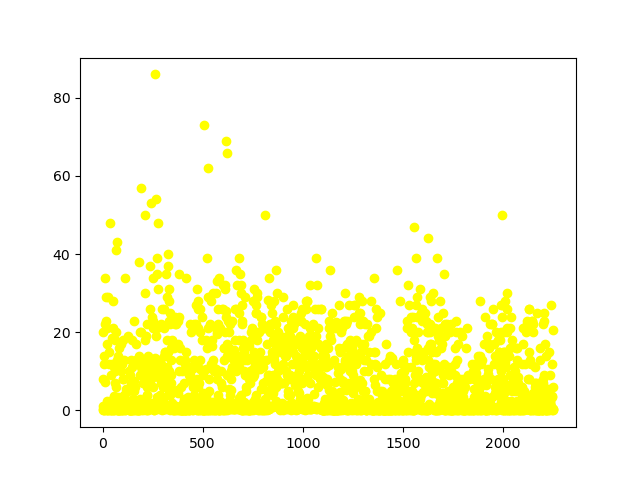
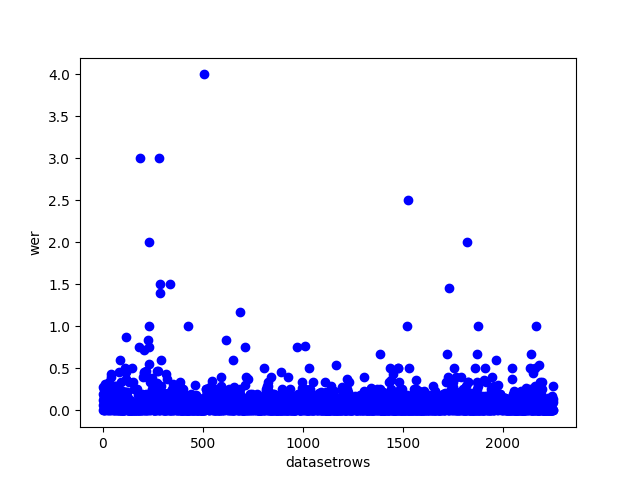
fix wer ref img colore

diff --git a/code/plotting.py b/code/plotting.py
@@ -229,8 +229,12 @@ if input != "ref.txt":
             plt.ylabel("uniscore with mean")
             plt.xlabel("reference score")
             plt.savefig(base + model + "uniscore2.png")
+
             plt.clf()
-            # plt.scatter(x, inps, color="gold", label="Reference")
+            plt.scatter(x, wers, color="blue", label="Reference")
+            plt.xlabel("datasetrows")
+            plt.ylabel("wer")
+            plt.savefig(base + "werref.png")
         else:
             inps = list(map(float, inpfile.readlines()))
             plt.scatter(x, inps, color="blue", label="Reference")
